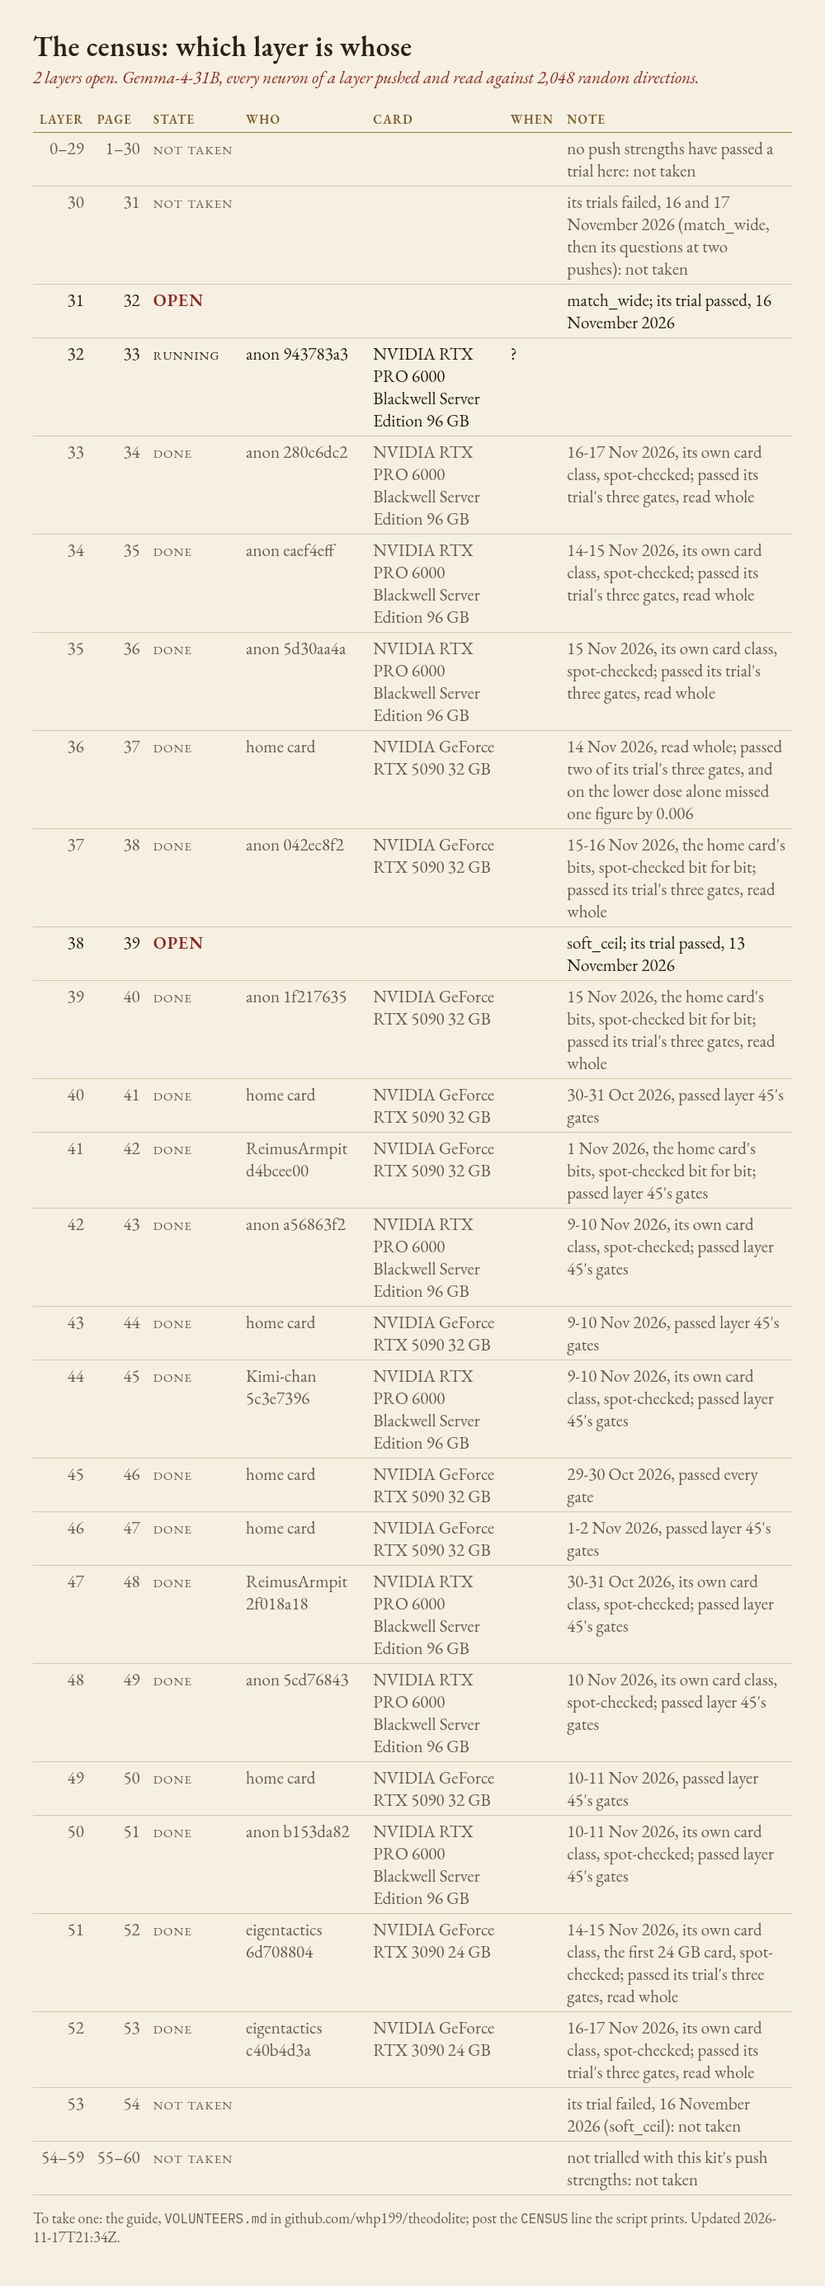
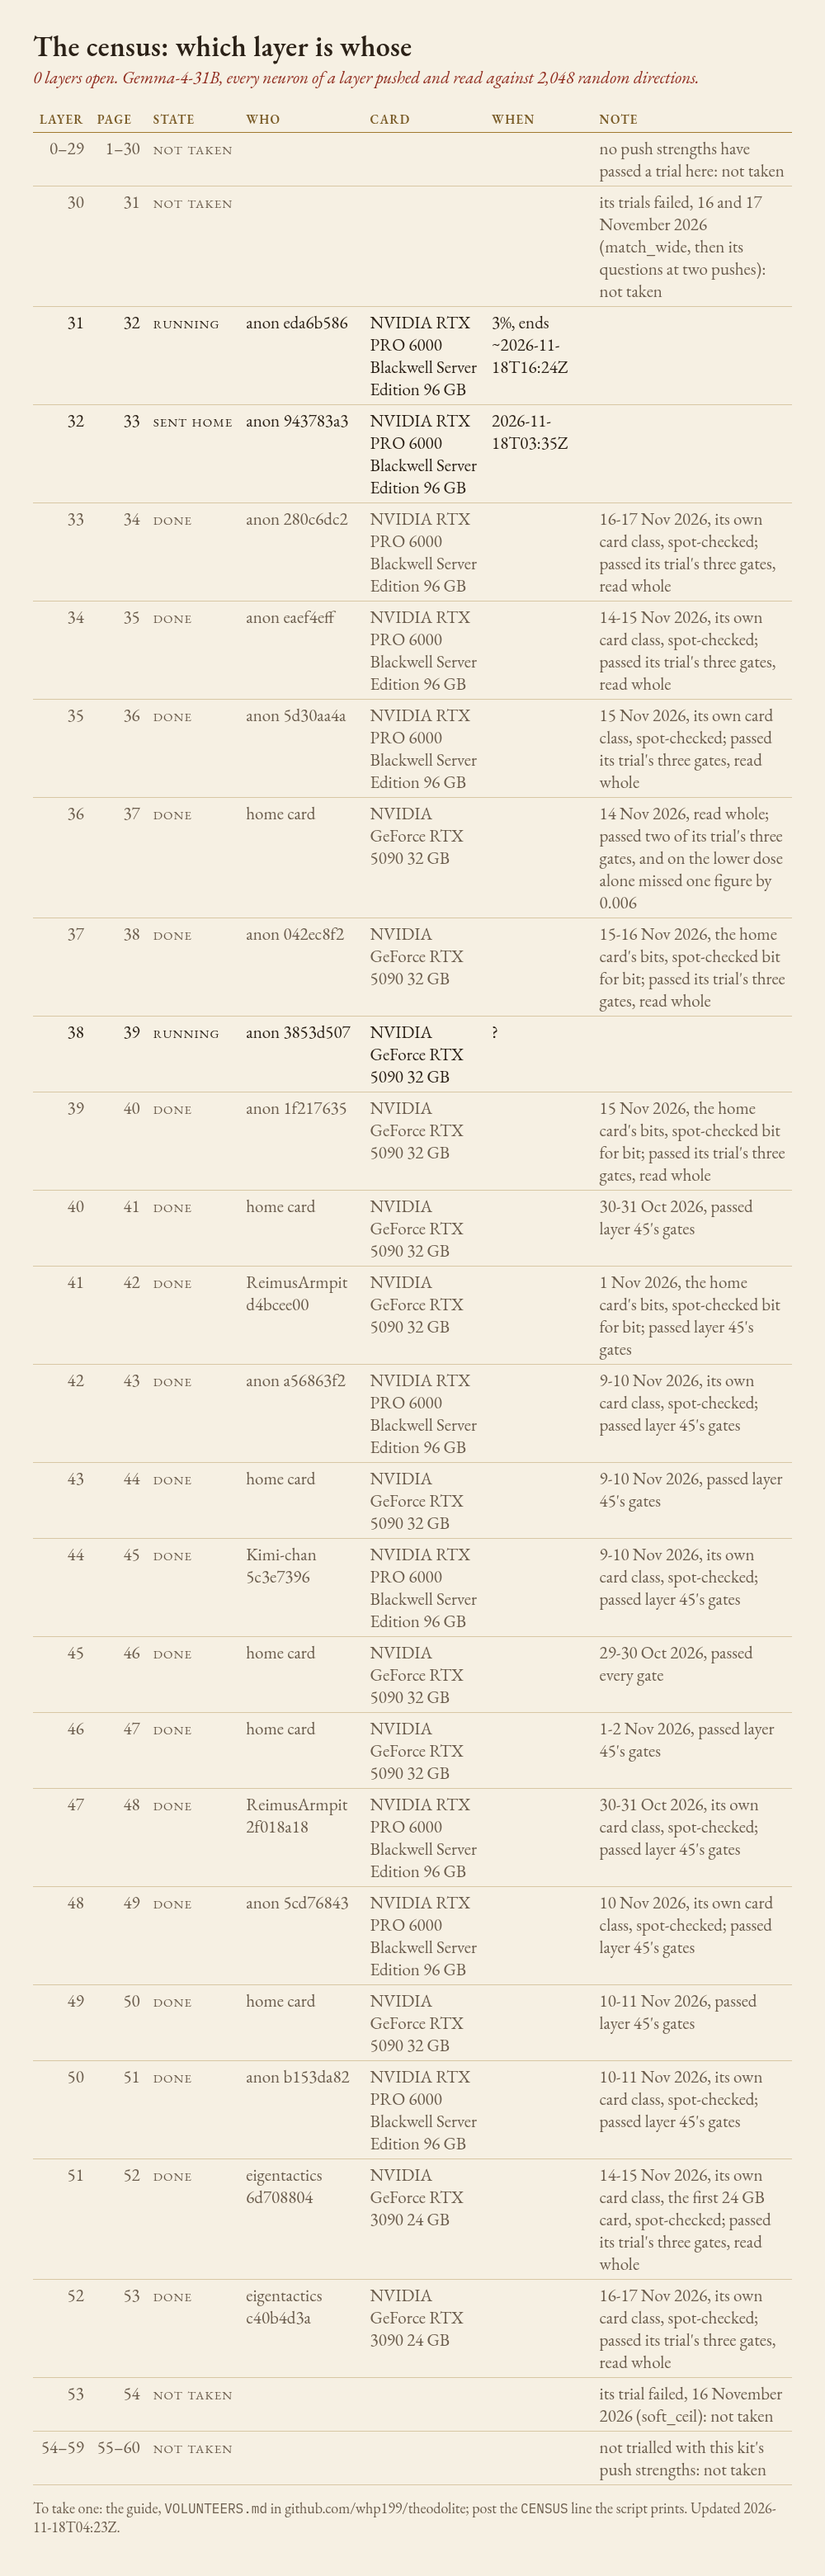
Board: layer 32 sent home; 31 and 38 taken under kit 5, so no layer of the kit is open
32 (943783a3, PRO 6000, own class) posted DONE at 03:35Z, 523 MB; not yet downloaded. 38 was taken at 22:31Z on a
5090 with the home card's bits (3853d507), and 31 at 04:02Z on a PRO 6000 of its own class (eda6b586), 3%, ending
about 16:24Z.

diff --git a/volunteers/BOARD.md b/volunteers/BOARD.md
@@ -6,14 +6,14 @@ Kit 5 (census-kit-5). How to take a layer: [VOLUNTEERS.md](https://github.com/wh
 |---:|---:|---|---|---|---|---|
 | 0–29 | 1–30 | not taken |  |  |  | no push strengths have passed a trial here: not taken |
 | 30 | 31 | not taken |  |  |  | its trials failed, 16 and 17 November 2026 (match_wide, then its questions at two pushes): not taken |
-| 31 | 32 | OPEN |  |  |  | match_wide; its trial passed, 16 November 2026 |
-| 32 | 33 | running | anon 943783a3 | NVIDIA RTX PRO 6000 Blackwell Server Edition 96 GB | ? |  |
+| 31 | 32 | running | anon eda6b586 | NVIDIA RTX PRO 6000 Blackwell Server Edition 96 GB | 3%, ends ~2026-11-18T16:24Z |  |
+| 32 | 33 | sent home | anon 943783a3 | NVIDIA RTX PRO 6000 Blackwell Server Edition 96 GB | 2026-11-18T03:35Z |  |
 | 33 | 34 | done | anon 280c6dc2 | NVIDIA RTX PRO 6000 Blackwell Server Edition 96 GB |  | 16-17 Nov 2026, its own card class, spot-checked; passed its trial's three gates, read whole |
 | 34 | 35 | done | anon eaef4eff | NVIDIA RTX PRO 6000 Blackwell Server Edition 96 GB |  | 14-15 Nov 2026, its own card class, spot-checked; passed its trial's three gates, read whole |
 | 35 | 36 | done | anon 5d30aa4a | NVIDIA RTX PRO 6000 Blackwell Server Edition 96 GB |  | 15 Nov 2026, its own card class, spot-checked; passed its trial's three gates, read whole |
 | 36 | 37 | done | home card | NVIDIA GeForce RTX 5090 32 GB |  | 14 Nov 2026, read whole; passed two of its trial's three gates, and on the lower dose alone missed one figure by 0.006 |
 | 37 | 38 | done | anon 042ec8f2 | NVIDIA GeForce RTX 5090 32 GB |  | 15-16 Nov 2026, the home card's bits, spot-checked bit for bit; passed its trial's three gates, read whole |
-| 38 | 39 | OPEN |  |  |  | soft_ceil; its trial passed, 13 November 2026 |
+| 38 | 39 | running | anon 3853d507 | NVIDIA GeForce RTX 5090 32 GB | ? |  |
 | 39 | 40 | done | anon 1f217635 | NVIDIA GeForce RTX 5090 32 GB |  | 15 Nov 2026, the home card's bits, spot-checked bit for bit; passed its trial's three gates, read whole |
 | 40 | 41 | done | home card | NVIDIA GeForce RTX 5090 32 GB |  | 30-31 Oct 2026, passed layer 45's gates |
 | 41 | 42 | done | ReimusArmpit d4bcee00 | NVIDIA GeForce RTX 5090 32 GB |  | 1 Nov 2026, the home card's bits, spot-checked bit for bit; passed layer 45's gates |
@@ -47,4 +47,4 @@ Judged:
 - L52 eigentactics c40b4d3a: accepted (own bits (NVIDIA GeForce RTX 3090), spot-checked)
 - L33 anon 280c6dc2: accepted (16-17 Nov 2026, its own card class, spot-checked; passed its trial's three gates, read whole)
 
-Holds: 36 h after RESERVE to START; then the run's end time (from PROGRESS) plus 24 h; at most 10 days in all. Updated 2026-11-17T21:34Z.
+Holds: 36 h after RESERVE to START; then the run's end time (from PROGRESS) plus 24 h; at most 10 days in all. Updated 2026-11-18T04:23Z.
